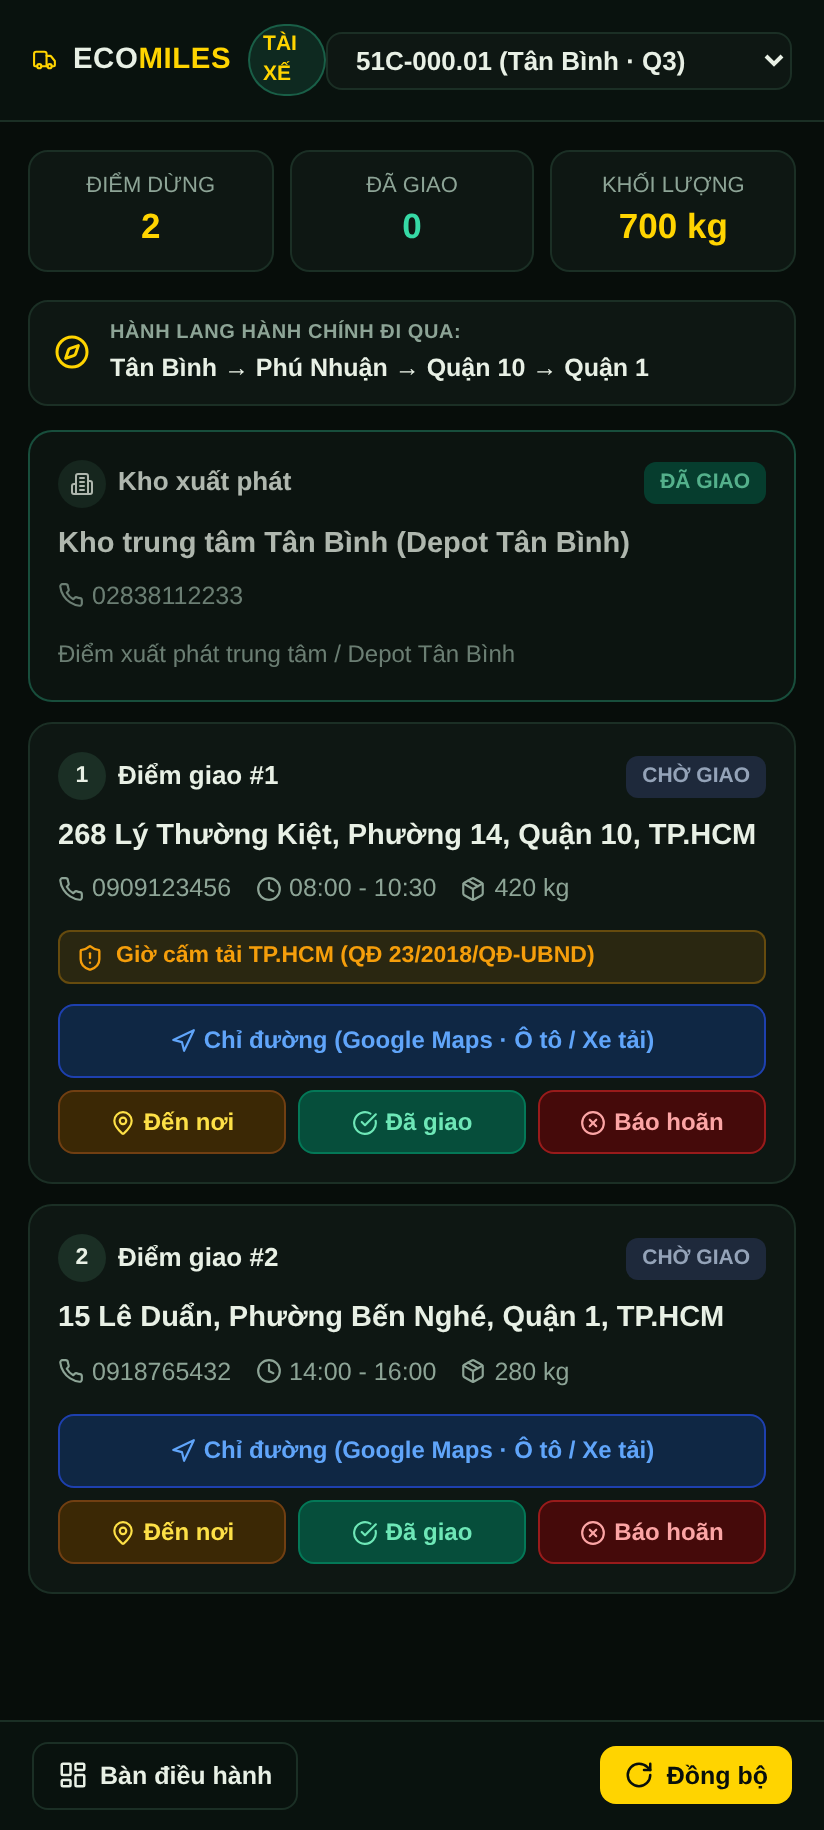
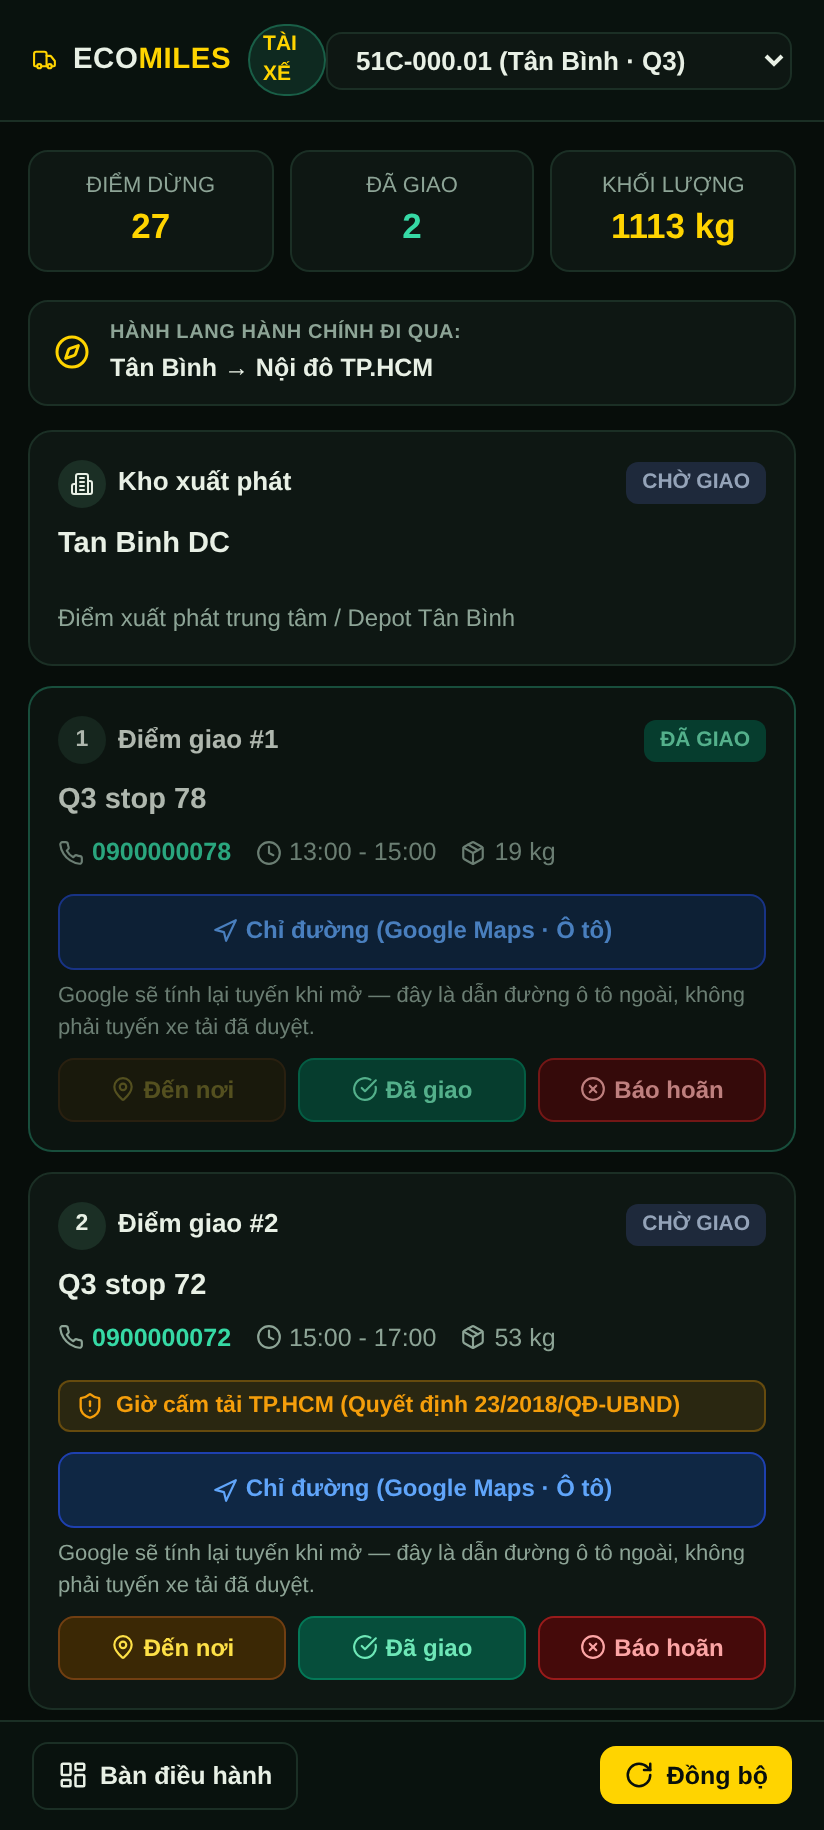
chore(qa): add live deployment screenshots and visual verification script

diff --git a/scripts/qa_live_deployment.py b/scripts/qa_live_deployment.py
@@ -1,0 +1,43 @@
+import sys
+from pathlib import Path
+from playwright.sync_api import sync_playwright
+
+def main():
+    root = Path(__file__).resolve().parent.parent
+    qa_dir = root / "docs" / "qa-screenshots"
+    qa_dir.mkdir(parents=True, exist_ok=True)
+
+    urls = [
+        ("landing-live.png", "https://main.cargox-group-3qm.pages.dev/", 1440, 900, False),
+        ("dispatcher-live.png", "https://main.cargox-group-3qm.pages.dev/app/", 1280, 800, False),
+        ("driver-live.png", "https://main.cargox-group-3qm.pages.dev/driver/", 412, 915, True),
+    ]
+
+    with sync_playwright() as p:
+        browser = p.chromium.launch(headless=True)
+
+        for filename, url, w, h, is_mobile in urls:
+            context = browser.new_context(
+                viewport={"width": w, "height": h},
+                device_scale_factor=2,
+                is_mobile=is_mobile,
+                has_touch=is_mobile,
+            )
+            page = context.new_page()
+            print(f"Navigating to {url}...")
+            response = page.goto(url, wait_until="networkidle", timeout=30000)
+            status = response.status if response else "Unknown"
+            print(f"  Status: {status}")
+            assert status == 200, f"Expected 200 OK for {url}, got {status}"
+
+            page.wait_for_timeout(1000)
+            out_path = qa_dir / filename
+            page.screenshot(path=str(out_path), full_page=False)
+            print(f"  Screenshot saved to {out_path}")
+            context.close()
+
+        browser.close()
+    print("All live deployment visual QA/QC checks passed successfully!")
+
+if __name__ == "__main__":
+    main()
